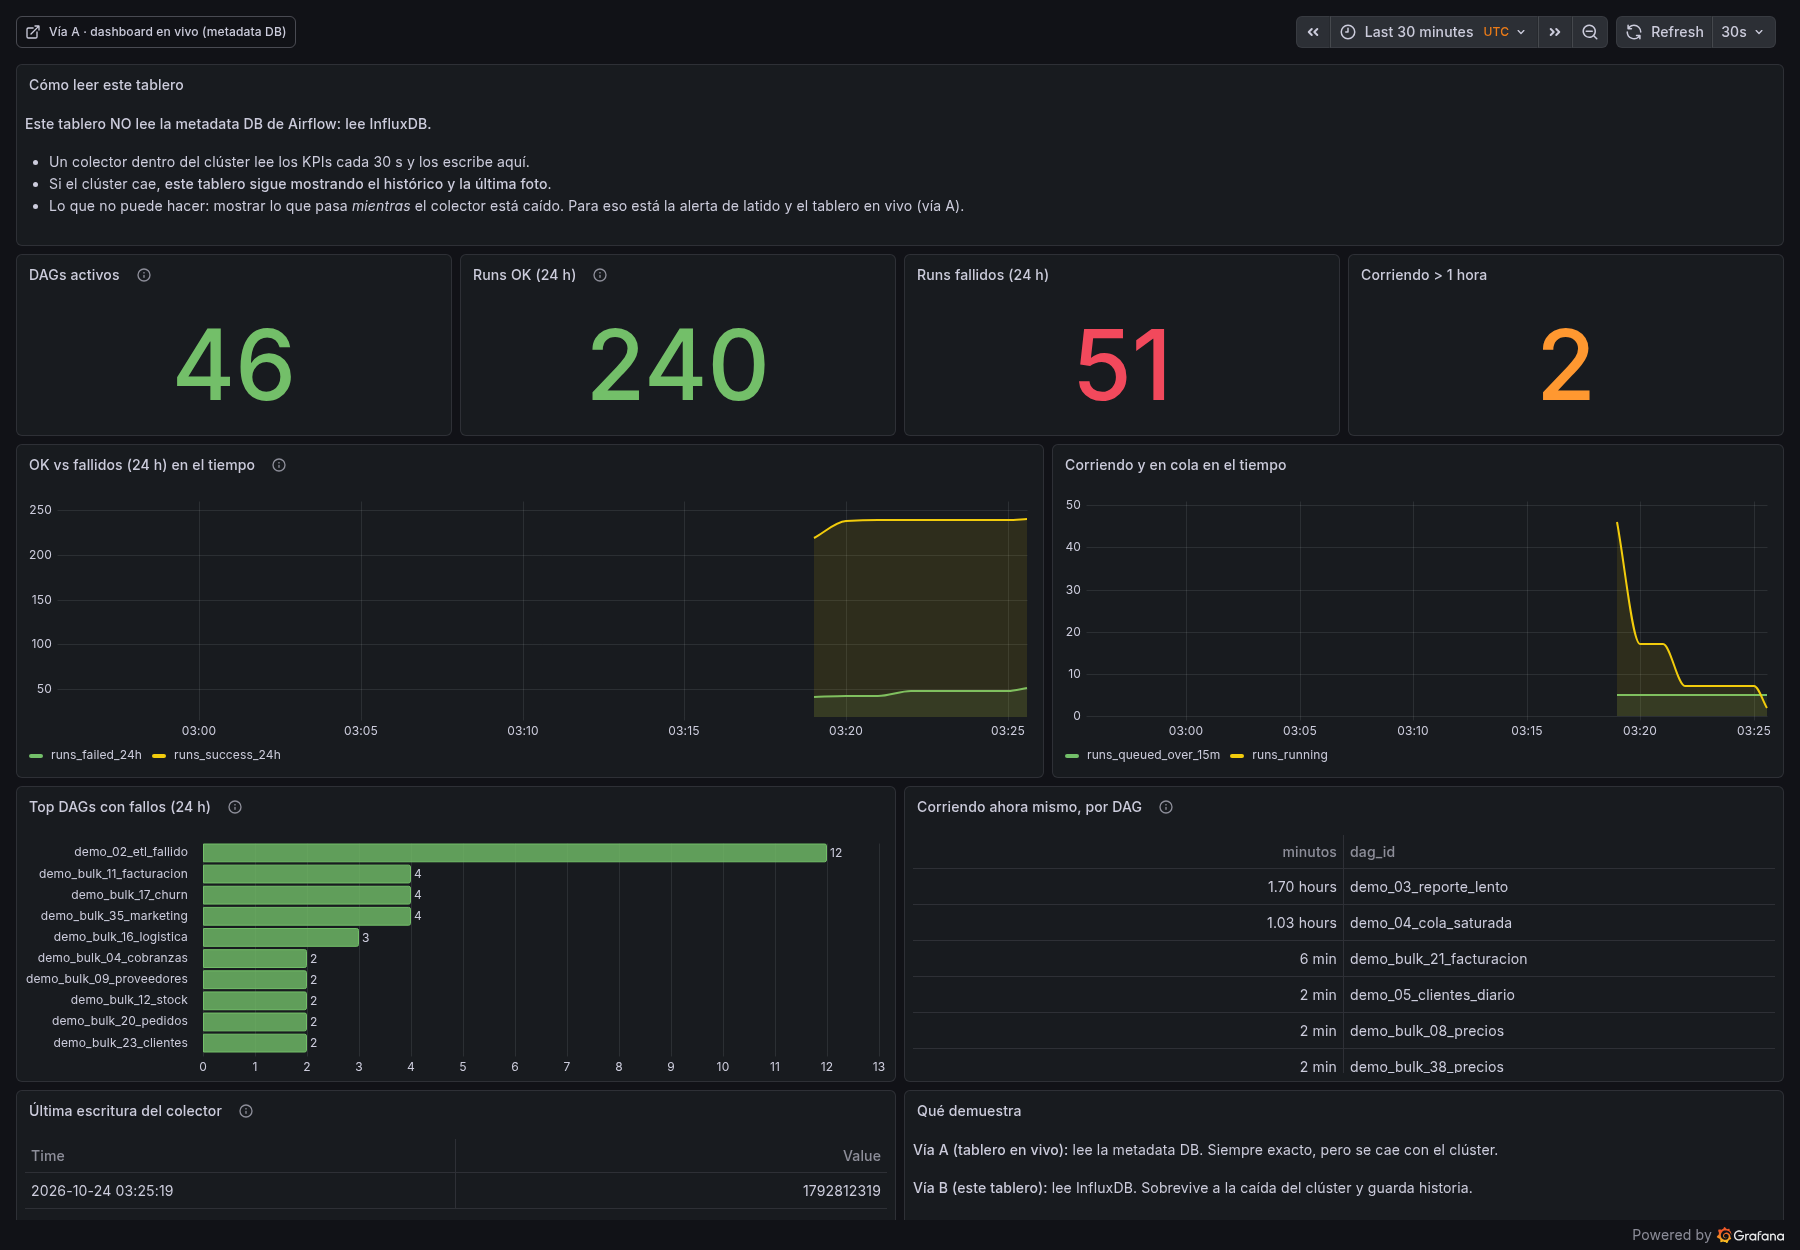
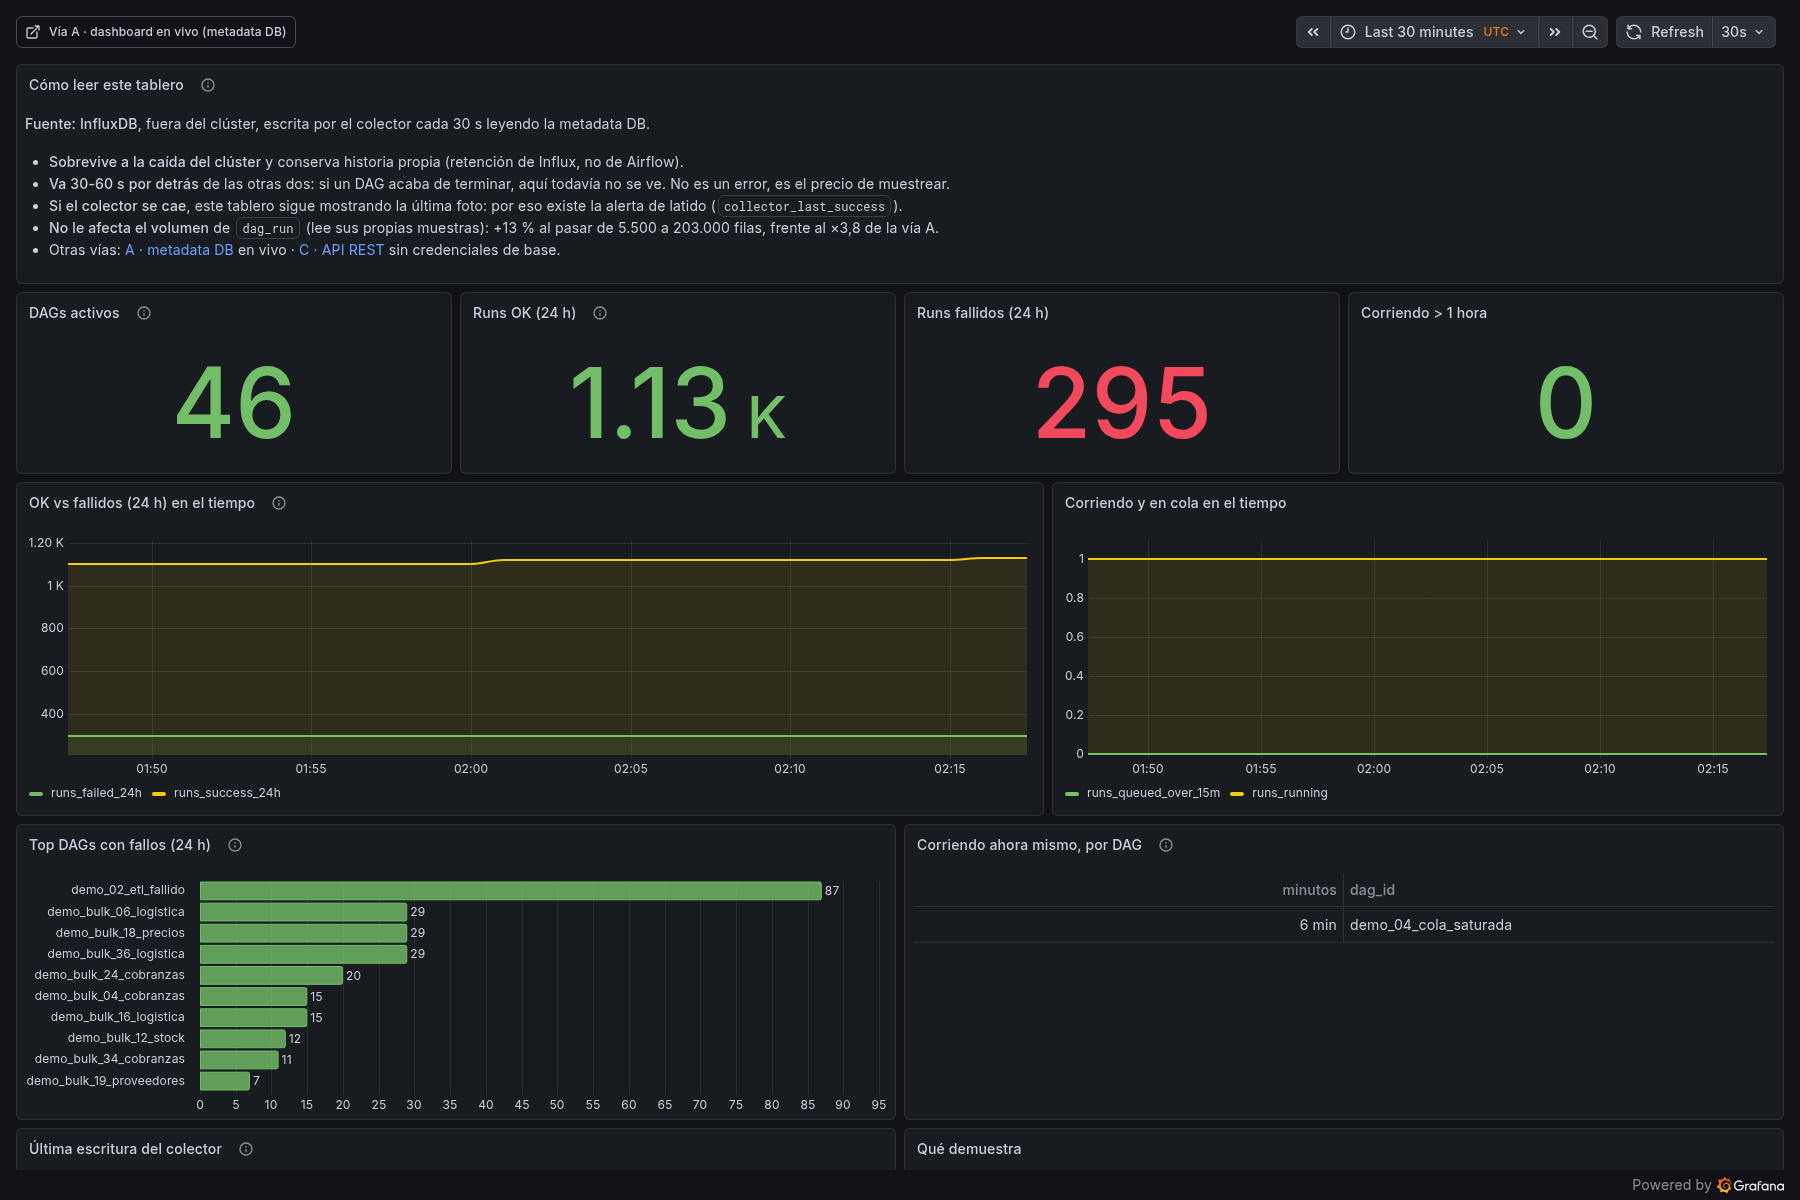
feat(dashboards): nota de cabecera en las tres vias + metodo y correccion del 8x/30x en el benchmark

diff --git a/scripts/benchmark.py b/scripts/benchmark.py
@@ -96,6 +96,23 @@ def cpu_us(contenedor: str) -> int | None:
     return None
 
 
+def cpu_en_reposo(contenedor: str, segundos: float = 10.0) -> float | None:
+    """CPU que consume el contenedor SIN tráfico del benchmark, en ms/s.
+
+    Sin esto, el CPU atribuido a un refresco incluye lo que el contenedor ya
+    estaba haciendo (el scheduler de Airflow, el colector, Influx compactando…),
+    y la comparación entre vías se vuelve injusta.
+    """
+    a = cpu_us(contenedor)
+    if a is None:
+        return None
+    time.sleep(segundos)
+    b = cpu_us(contenedor)
+    if b is None or b <= a:
+        return None
+    return (b - a) / 1000.0 / segundos          # ms de CPU por segundo en reposo
+
+
 def pg_stats() -> dict:
     salida = subprocess.run(
         ["docker", "exec", "airflow-lab-pg", "psql", "-U", "airflow", "-d", "airflow", "-tAc",
@@ -113,7 +130,9 @@ def medir(via: str, uid: str, repeticiones: int) -> dict:
     por_panel = {}
 
     cont = CONTENEDORES[via]
+    reposo = cpu_en_reposo(cont, 10)
     cpu0 = cpu_us(cont)
+    t_inicio = time.perf_counter()
     pg0 = pg_stats() if via == "A" else None
 
     for _ in range(repeticiones):
@@ -131,6 +150,7 @@ def medir(via: str, uid: str, repeticiones: int) -> dict:
             bytes_total += nbytes
             por_panel.setdefault(p["title"], []).append(dt * 1000)
 
+    t_fin = time.perf_counter()
     cpu1 = cpu_us(cont)
     pg1 = pg_stats() if via == "A" else None
 
@@ -151,6 +171,12 @@ def medir(via: str, uid: str, repeticiones: int) -> dict:
         "bytes_por_refresco": round(bytes_total / repeticiones),
         "cpu_ms_por_refresco": (round((cpu1 - cpu0) / 1000 / repeticiones, 1)
                                 if cpu0 and cpu1 and cpu1 > cpu0 else None),
+        # CPU del contenedor menos lo que ya consumía en reposo: lo atribuible
+        # de verdad a la carga del tablero.
+        "cpu_reposo_ms_por_s": (round(reposo, 1) if reposo is not None else None),
+        "cpu_neto_ms_por_refresco": (
+            round((((cpu1 - cpu0) / 1000.0) - (reposo * (t_fin - t_inicio))) / repeticiones, 1)
+            if (reposo is not None and cpu0 and cpu1 and cpu1 > cpu0) else None),
         "panel_mas_lento_ms": round(max((statistics.mean(v) for v in por_panel.values())), 1),
         "detalle_paneles": {k: round(statistics.mean(v), 1) for k, v in por_panel.items()},
     }
@@ -194,7 +220,8 @@ def main() -> int:
         print(f"--- Vía {via} ({uid}) · {r['paneles']} paneles")
         print(f"    panel p50: {r['latencia_panel_ms']['p50']} ms · máx: {r['latencia_panel_ms']['max']} ms")
         print(f"    refresco completo: {r['refresco_completo_ms']} ms · {r['bytes_por_refresco']} bytes")
-        print(f"    CPU del origen: {r['cpu_ms_por_refresco']} ms por refresco")
+        print(f"    CPU del origen: {r['cpu_ms_por_refresco']} ms por refresco "
+              f"(en reposo: {r['cpu_reposo_ms_por_s']} ms/s · neto: {r['cpu_neto_ms_por_refresco']} ms)")
         if "postgres_por_refresco" in r:
             print(f"    Postgres: {r['postgres_por_refresco']}")
         if r["errores"]:

diff --git a/scripts/generate_dashboard_historico.py b/scripts/generate_dashboard_historico.py
@@ -137,14 +137,7 @@ def texto(pid, title, contenido, grid):
 
 
 panels = [
-    texto(1, "Cómo leer este tablero", """
-**Este tablero NO lee la metadata DB de Airflow: lee InfluxDB.**
 
-- Un colector dentro del clúster lee los KPIs cada 30 s y los escribe aquí.
-- Si el clúster cae, **este tablero sigue mostrando el histórico y la última foto**.
-- Lo que no puede hacer: mostrar lo que pasa *mientras* el colector está caído.
-  Para eso está la alerta de latido y el tablero en vivo (vía A).
-""", {"h": 5, "w": 24, "x": 0, "y": 0}),
 
     stat(2, "DAGs activos", "dags_active", {"h": 5, "w": 6, "x": 0, "y": 5},
          desc="Última muestra del colector."),
@@ -180,6 +173,40 @@ panels = [
 La prueba: parar Postgres. El tablero A se pone en rojo; este sigue dibujando.
 """, {"h": 6, "w": 12, "x": 12, "y": 27}),
 ]
+
+NOTA = """
+**Fuente: InfluxDB**, fuera del clúster, escrita por el colector cada 30 s leyendo la metadata DB.
+
+- **Sobrevive a la caída del clúster** y conserva historia propia (retención de Influx, no de Airflow).
+- **Va 30-60 s por detrás** de las otras dos: si un DAG acaba de terminar, aquí todavía no se ve.
+  No es un error, es el precio de muestrear.
+- **Si el colector se cae**, este tablero sigue mostrando la última foto: por eso existe la alerta
+  de latido (`collector_last_success`).
+- **No le afecta el volumen** de `dag_run` (lee sus propias muestras): +13 % al pasar de 5.500 a
+  203.000 filas, frente al ×3,8 de la vía A.
+- Otras vías: [A · metadata DB](/d/airflow-visibilidad) en vivo ·
+  [C · API REST](/d/airflow-api) sin credenciales de base.
+"""
+
+
+def con_nota(panels, alto=6):
+    nota = {
+        "id": 90, "type": "text", "title": "Cómo leer este tablero",
+        "description": "Contexto de la vía y sus límites, medidos.",
+        "datasource": DS, "gridPos": {"h": alto, "w": 24, "x": 0, "y": 0},
+        "options": {"mode": "markdown", "content": NOTA,
+                    "code": {"language": "plaintext", "showLineNumbers": False,
+                             "showMiniMap": False}},
+        "targets": [], "fieldConfig": {"defaults": {}, "overrides": []},
+    }
+    # Re-basar: el primer panel debe empezar justo debajo de la nota.
+    ymin = min(p["gridPos"]["y"] for p in panels)
+    for p in panels:
+        p["gridPos"]["y"] = p["gridPos"]["y"] - ymin + alto
+    return [nota] + panels
+
+
+panels = con_nota(panels)
 
 dashboard = {
     "uid": "airflow-historico",

diff --git a/scripts/generate_dashboard.py b/scripts/generate_dashboard.py
@@ -330,6 +330,44 @@ WHERE execution_date > now() - interval '24 hours'
          desc="Volumen total de ejecuciones del último día."),
 ]
 
+# ---------------------------------------------------------------------------
+# Nota de cabecera: qué es esta vía, qué límites tiene y cómo se compara.
+# Va en el propio tablero porque es lo primero que pregunta quien lo ve.
+# ---------------------------------------------------------------------------
+NOTA = """
+**Fuente: la metadata DB de Airflow (PostgreSQL), en solo lectura.** Se refresca cada 30 s.
+
+- **La más rápida y exacta**: ~172 ms para el refresco completo con 5.500 filas; los números son
+  los de Airflow al milisegundo.
+- **No sobrevive a la caída del clúster**: si la base cae, los paneles pasan a *Error* a propósito,
+  en vez de mostrar datos viejos como si fueran actuales.
+- **Coincide con la vía C** (misma fuente de verdad): diferencia esperada 0 o ±1. Con la vía B,
+  ±1 y hasta 60 s de retraso, porque muestrea cada 30 s.
+- Otras vías: [B · InfluxDB](/d/airflow-historico) sobrevive a la caída ·
+  [C · API REST](/d/airflow-api) no necesita credenciales de base de datos.
+"""
+
+
+def con_nota(panels, alto=5):
+    """Antepone la nota y baja el resto de paneles para no solaparlos."""
+    nota = {
+        "id": 90, "type": "text", "title": "Cómo leer este tablero",
+        "description": "Contexto de la vía y sus límites, medidos.",
+        "datasource": DS, "gridPos": {"h": alto, "w": 24, "x": 0, "y": 0},
+        "options": {"mode": "markdown", "content": NOTA,
+                    "code": {"language": "plaintext", "showLineNumbers": False,
+                             "showMiniMap": False}},
+        "targets": [], "fieldConfig": {"defaults": {}, "overrides": []},
+    }
+    # Re-basar: el primer panel debe empezar justo debajo de la nota.
+    ymin = min(p["gridPos"]["y"] for p in panels)
+    for p in panels:
+        p["gridPos"]["y"] = p["gridPos"]["y"] - ymin + alto
+    return [nota] + panels
+
+
+panels = con_nota(panels)
+
 dashboard = {
     "uid": "airflow-visibilidad",
     "title": "Airflow 2.8.1 · Visibilidad de DAGs",

diff --git a/scripts/generate_dashboard_api.py b/scripts/generate_dashboard_api.py
@@ -160,14 +160,25 @@ dashboard["panels"][-1]["options"]["content"] = """
 - Los **cinco números** salen de la API con **una llamada por panel** (`limit=1` y `total_entries`).
 - No necesita **ninguna credencial de base de datos**: solo un usuario de Airflow con rol `Viewer`
   (comprobado: puede leer, y devuelve **403** al intentar disparar un DAG).
+- **Coincide exactamente con la vía A** (misma fuente de verdad): diferencia medida 0 en los cinco KPIs.
+
+### Lo que cuesta (medido, no estimado)
+
+- **1,5 s por refresco completo**: 8 veces más lento que la vía A (172 ms) con el mismo volumen.
+- **~30 veces más CPU** en el componente que golpea (el webserver), porque cada panel es una
+  petición HTTP autenticada que a su vez consulta la base: se paga dos veces el mismo trabajo.
+- **Carga**: cada refresco golpea el **webserver** (Gunicorn), la pieza más frágil del stack.
+- **Requisito previo**: Airflow 2.8.1 solo acepta cookie de sesión por defecto; hubo que habilitar
+  `basic_auth` y **reiniciar el webserver**.
 
 ### Lo que no resuelve
 
 - **Serie temporal**: habría que hacer una llamada por cada punto del gráfico (24-48 por refresco).
 - **Ranking por DAG**: la API no agrupa; serían 46 llamadas o paginar los fallidos.
-- **Carga**: cada refresco golpea el **webserver** (Gunicorn), que es la pieza más frágil.
-- **Requisito previo**: Airflow 2.8.1 solo acepta cookie de sesión por defecto; hubo que
-  habilitar `basic_auth` y **reiniciar el webserver**.
+- **No sobrevive a la caída del clúster** (como la vía A).
+
+Otras vías: [A · metadata DB](/d/airflow-visibilidad) · [B · InfluxDB](/d/airflow-historico).
+Método y números completos: `docs/14-benchmark.md`.
 """
 
 json.dump(dashboard, sys.stdout, indent=2, ensure_ascii=False)

diff --git a/scripts/verify_dashboard.py b/scripts/verify_dashboard.py
@@ -78,6 +78,9 @@ def main() -> int:
     errors = 0
     print("=" * 78)
     for p in panels:
+        if p.get("type") == "text" or not p.get("targets"):
+            print(f"[skip] {p['id']:>2} {p['title']} (sin consulta)")
+            continue
         sql = resolve(p["targets"][0]["rawSql"], args.ventana, hours)
         payload = {
             "queries": [{

diff --git a/docs/14-benchmark.md b/docs/14-benchmark.md
@@ -29,9 +29,10 @@ que sí es solo de las consultas.
 | CPU del origen por refresco | 43,5 ms | 75,4 ms | 1.283,6 ms |
 | Errores | 0 | 0 | 0 |
 
-**Lectura:** con volumen pequeño, A y B empatan (170-190 ms por refresco). **C es 8 veces más
-lenta** que A y consume 30 veces más CPU, porque cada panel es una petición HTTP autenticada al
-webserver (Gunicorn) que a su vez consulta la base: se paga dos veces el mismo trabajo.
+**Lectura:** con volumen pequeño, A y B empatan (170-190 ms por refresco). **C tarda 8,5 veces más**
+que A (1.481 ms frente a 175 ms) porque cada panel es una petición HTTP autenticada al webserver
+(Gunicorn) que a su vez consulta la base: se paga dos veces el mismo trabajo. El coste en CPU y cómo
+se calcula, en la sección [«De dónde salen el 8× y el 30×»](#de-dónde-salen-el-8-y-el-30-y-por-qué-el-30-es-el-número-débil).
 
 ## Resultado 2 · volumen alto (203.367 filas, 88 MB)
 
@@ -99,6 +100,68 @@ WHERE execution_date > now() - interval '7 days'
 Y una regla que sale de los números, no de la teoría: **el refresco de 1,5 s de C es aceptable para
 un panel de operaciones, pero no para un dashboard de pared** (que refresca cada 30 s con 10
 personas mirando). A y B sí aguantan ese uso.
+
+## De dónde salen el "8×" y el "30×" (y por qué el 30 es el número débil)
+
+Las dos afirmaciones que se repiten en la presentación salen de la **misma tabla del Resultado 1**,
+dividiendo. Nada más:
+
+```text
+refresco completo, volumen actual (5.567 filas)
+  A · metadata DB ....  172,3 ms
+  B · InfluxDB .......  187,3 ms
+  C · API REST ....... 1453,7 ms      ← 1453,7 / 172,3 = 8,44  →  "8 veces más lento"
+
+CPU del contenedor por refresco
+  A · postgres .......   43,5 ms
+  B · influx .........   75,4 ms
+  C · webserver ...... 1283,6 ms      ← 1283,6 / 43,5 = 29,5  →  "30 veces más CPU"
+```
+
+### Cómo se mide cada cosa
+
+1. **Latencia.** Para cada panel del dashboard se hace `POST /api/ds/query` a Grafana y se mide el
+   tiempo de pared con `time.perf_counter()` alrededor de la llamada. Se repite 4 veces por panel y
+   se toma la mediana (p50). El "refresco completo" es **la suma de la media de cada panel**: una
+   pasada por todos los paneles, que es lo que hace el navegador cada 30 s.
+2. **CPU.** Se lee `usage_usec` del `cpu.stat` del cgroup de cada contenedor antes y después de la
+   tanda, se divide por el número de refrescos y se expresa en milisegundos de CPU por refresco.
+3. **Aislamiento.** Todo corre en el mismo nodo y el mismo minuto; lo único que cambia entre vías es
+   el componente que se mide (postgres / influx / webserver).
+
+### El 30× es el número que hay que matizar (y ahora está corregido)
+
+La CPU del contenedor **incluye lo que el contenedor ya estaba haciendo**: el scheduler de Airflow
+en `airflow-lab-pg`, el colector en `airflow-lab-influx`, y Gunicorn atendiendo la UI en el
+webserver. Por eso el script ahora mide también **la CPU en reposo** (10 s sin tráfico del
+benchmark) y la **descuenta**:
+
+```text
+cpu_neto = (cpu_durante_la_tanda − (reposo_por_segundo × segundos_de_la_tanda)) / refrescos
+```
+
+Con el descuento aplicado (última pasada, mismos 5.567 filas):
+
+| Vía | CPU cruda por refresco | CPU en reposo del contenedor | **CPU neta por refresco** |
+|---|---|---|---|
+| A · postgres | 33,6 ms | **90,3 ms/s** (el scheduler de Airflow no para) | **16,6 ms** |
+| B · influx | 73,4 ms | 4,7 ms/s | **72,6 ms** |
+| C · webserver | 1.320,5 ms | 3,1 ms/s | **1.315,9 ms** |
+
+Y los ratios, según cómo se mire:
+
+```text
+latencia .......... 1481,5 / 174,6 = 8,5×   →  "8 veces más lento"   (sólido: se mide de fuera)
+CPU cruda ......... 1320,5 /  33,6 = 39,3×  →  "30×" era conservador
+CPU neta .......... 1315,9 /  16,6 = 79,3×  →  el coste real es aún mayor
+```
+
+Conclusión honesta: **el 8× de latencia es la cifra que se defiende**, porque se mide de fuera y no
+depende de la carga de fondo del contenedor. El multiplicador de CPU **cambia según el método**
+(39× crudo, 79× neto) y por eso no debe ser el titular: se cita como color, con la explicación de
+que el contenedor de Postgres ya venía gastando 90 ms/s por el scheduler de Airflow.
+
+La CPU se cita como color, no como titular.
 
 ## Consistencia entre las tres vías (¿dan los mismos números?)
 
